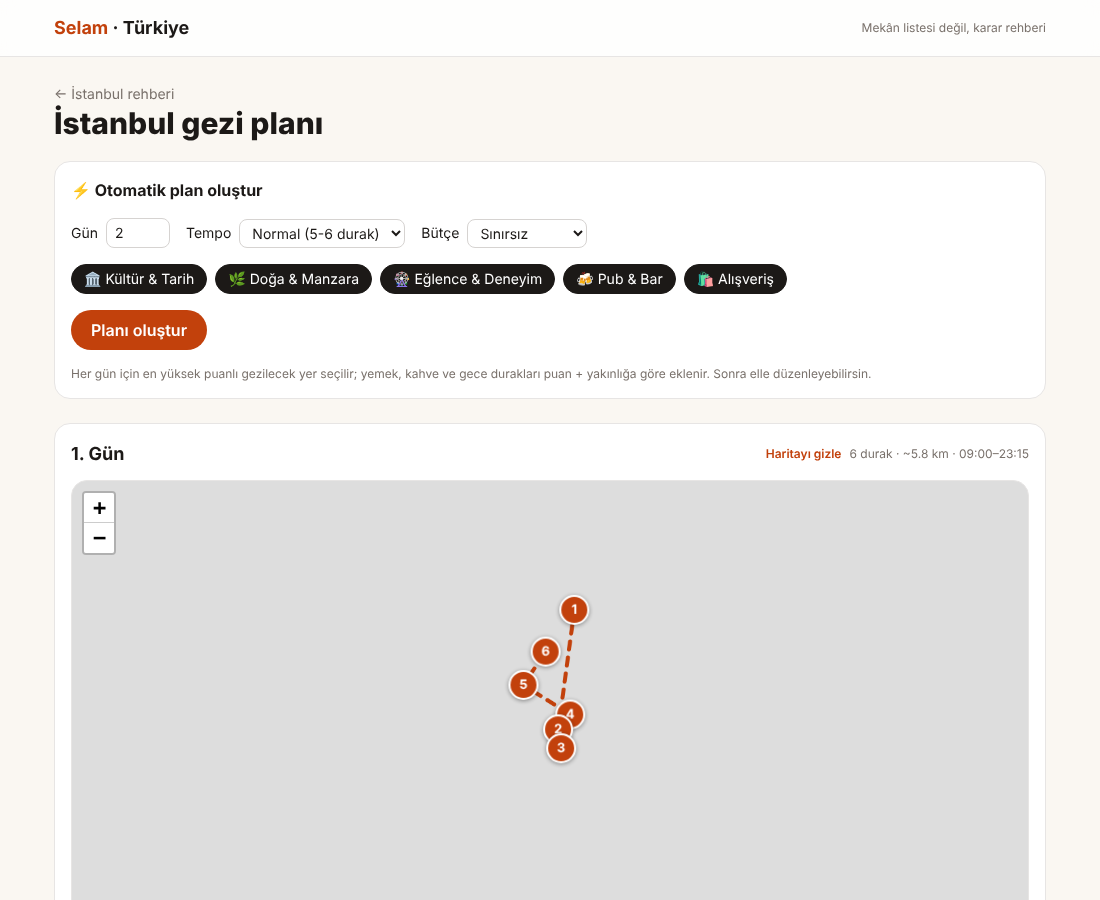
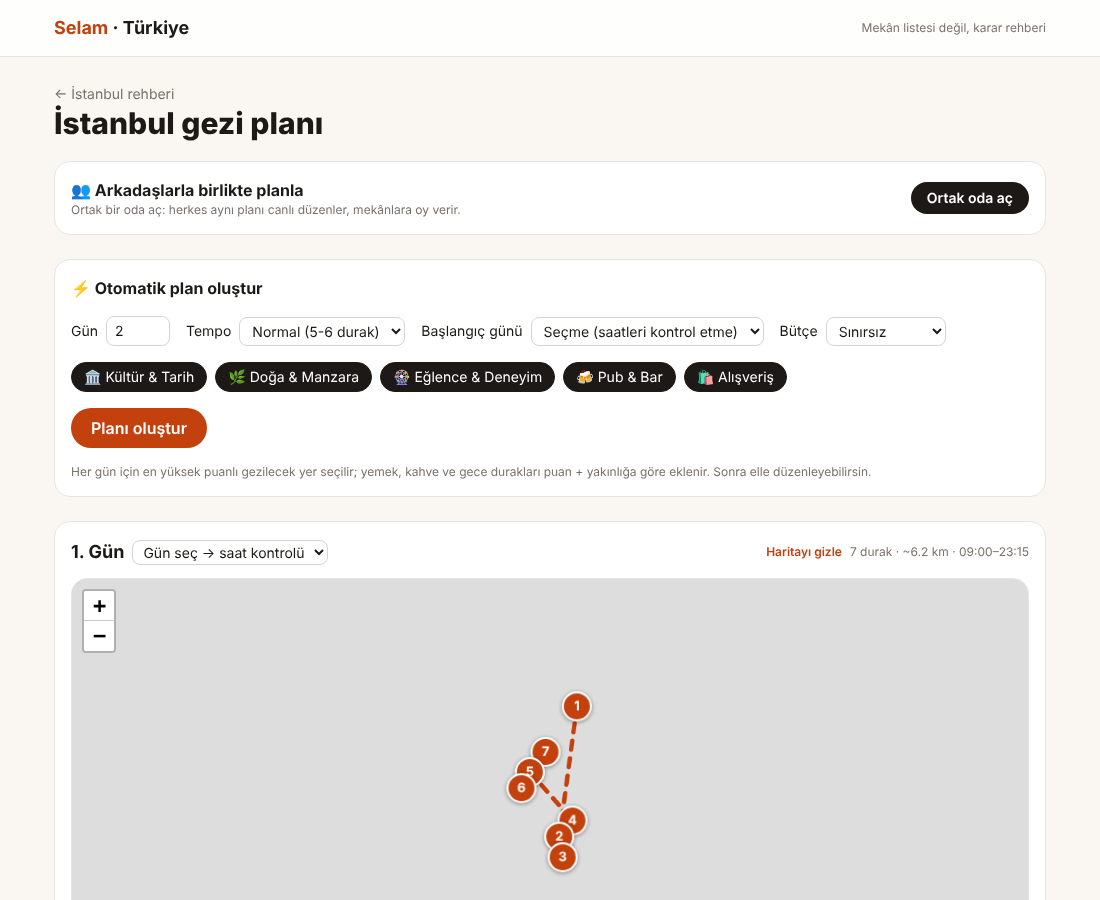
Harita: Google Maps JavaScript API'ye geçiş (anahtarsız yedek: Leaflet); ortak işaretçi/balon kodu; .env.example
Claude-Session: https://claude.ai/code/session_01CUKZLZnPzdkBC7hLm8rPf2

diff --git a/src/components/map/GoogleMap.tsx b/src/components/map/GoogleMap.tsx
@@ -1,0 +1,116 @@
+/// <reference types="@types/google.maps" />
+"use client";
+import { useEffect, useRef, useState } from "react";
+import { fitKey, pinElement, popupContent, type MapProps } from "./shared";
+
+const KEY = process.env.NEXT_PUBLIC_GOOGLE_MAPS_API_KEY ?? "";
+/** Gelişmiş işaretçiler Map ID ister; "DEMO_MAP_ID" yalnızca geliştirme içindir — üretimde kendi Map ID'ni tanımla. */
+const MAP_ID = process.env.NEXT_PUBLIC_GOOGLE_MAP_ID || "DEMO_MAP_ID";
+
+let loading: Promise<void> | null = null;
+/** Google Maps JS API'sini bir kez yükler (bağımlılık eklemeden, resmi dinamik yükleme yöntemiyle). */
+function loadGoogle(): Promise<void> {
+  if (typeof google !== "undefined" && typeof google.maps?.importLibrary === "function") return Promise.resolve();
+  loading ??= new Promise<void>((resolve, reject) => {
+    const s = document.createElement("script");
+    s.src = `https://maps.googleapis.com/maps/api/js?key=${encodeURIComponent(KEY)}&v=weekly&loading=async&language=tr&region=TR`;
+    s.async = true;
+    s.onload = () => resolve();
+    s.onerror = () => {
+      loading = null;
+      reject(new Error("Google Haritalar yüklenemedi"));
+    };
+    document.head.appendChild(s);
+  });
+  return loading;
+}
+
+export default function GoogleMap({ places, center, route, inPlan, dim, onToggle, height = "70vh" }: MapProps) {
+  const host = useRef<HTMLDivElement>(null);
+  const map = useRef<google.maps.Map | null>(null);
+  const info = useRef<google.maps.InfoWindow | null>(null);
+  const overlays = useRef<{ markers: google.maps.marker.AdvancedMarkerElement[]; line?: google.maps.Polyline }>({ markers: [] });
+  const fitted = useRef<string | null>(null);
+  const [ready, setReady] = useState(false);
+  const [error, setError] = useState<string | null>(null);
+
+  useEffect(() => {
+    let cancelled = false;
+    (async () => {
+      try {
+        await loadGoogle();
+        const { Map, InfoWindow } = (await google.maps.importLibrary("maps")) as google.maps.MapsLibrary;
+        await google.maps.importLibrary("marker");
+        if (cancelled || !host.current) return;
+        map.current = new Map(host.current, {
+          center: { lat: center[0], lng: center[1] },
+          zoom: 12,
+          mapId: MAP_ID,
+          clickableIcons: false,
+          streetViewControl: false,
+          mapTypeControl: false,
+        });
+        info.current = new InfoWindow();
+        setReady(true);
+      } catch (e) {
+        if (!cancelled) setError((e as Error).message);
+      }
+    })();
+    return () => {
+      cancelled = true;
+    };
+    // eslint-disable-next-line react-hooks/exhaustive-deps
+  }, []);
+
+  useEffect(() => {
+    const m = map.current;
+    if (!ready || !m) return;
+    for (const mk of overlays.current.markers) mk.map = null;
+    overlays.current.line?.setMap(null);
+    overlays.current = { markers: [] };
+
+    const order = new Map((route ?? []).map((p, i) => [p.id, i + 1]));
+    const bounds = new google.maps.LatLngBounds();
+    const path: google.maps.LatLngLiteral[] = [];
+    for (const p of route ?? places) {
+      const pos = { lat: p.lat, lng: p.lng };
+      const planned = inPlan?.(p.id);
+      const marker = new google.maps.marker.AdvancedMarkerElement({
+        map: m,
+        position: pos,
+        title: p.name,
+        content: pinElement(p, { n: order.get(p.id), planned, dim: dim?.(p.id) }),
+      });
+      marker.addListener("click", () => {
+        info.current?.setContent(popupContent(p, planned, onToggle && (() => { onToggle(p.id); info.current?.close(); })));
+        info.current?.open({ map: m, anchor: marker });
+      });
+      overlays.current.markers.push(marker);
+      bounds.extend(pos);
+      path.push(pos);
+    }
+    if (route && route.length > 1) {
+      overlays.current.line = new google.maps.Polyline({
+        map: m,
+        path,
+        strokeOpacity: 0,
+        icons: [{ icon: { path: "M 0,-1 0,1", strokeOpacity: 1, strokeColor: "#c2410c", scale: 3 }, offset: "0", repeat: "14px" }],
+      });
+    }
+    const key = fitKey(places, route);
+    if (path.length && fitted.current !== key) {
+      fitted.current = key;
+      m.fitBounds(bounds, 48);
+      google.maps.event.addListenerOnce(m, "idle", () => (m.getZoom() ?? 0) > 15 && m.setZoom(15));
+    }
+  }, [ready, places, route, inPlan, dim, onToggle]);
+
+  if (error) {
+    return (
+      <div style={{ height }} className="rounded-2xl border border-stone-200 bg-stone-50 grid place-items-center text-sm text-stone-600 p-4 text-center">
+        Harita yüklenemedi. Bağlantını ya da Google Maps anahtarı kısıtlarını (izinli alan adı) kontrol et.
+      </div>
+    );
+  }
+  return <div ref={host} style={{ height }} className="rounded-2xl border border-stone-200 z-0 bg-stone-100" />;
+}

diff --git a/src/components/map/shared.ts b/src/components/map/shared.ts
@@ -1,0 +1,66 @@
+import { catEmoji, PRICE_LABEL } from "@/lib/categories";
+import { mapsUrl } from "@/lib/geo";
+import type { ScoredPlace } from "@/lib/types";
+
+export interface MapProps {
+  places: ScoredPlace[];
+  center: [number, number];
+  /** verilirse noktalar bu sırayla numaralanır ve rota çizgisiyle birleştirilir */
+  route?: ScoredPlace[];
+  inPlan?: (id: string) => boolean;
+  /** true dönen mekânlar (ör. şu an kapalı) soluk çizilir */
+  dim?: (id: string) => boolean;
+  onToggle?: (id: string) => void;
+  height?: string;
+}
+
+/** Her iki harita sağlayıcısı için ortak işaretçi (numaralı/emojili daire). DOM ile kurulur, innerHTML yok. */
+export function pinElement(p: ScoredPlace, opts: { n?: number; planned?: boolean; dim?: boolean }) {
+  const el = document.createElement("div");
+  const hot = !!opts.n || !!opts.planned;
+  el.style.cssText = `width:30px;height:30px;border-radius:50%;display:grid;place-items:center;font-size:${
+    opts.n ? 13 : 15
+  }px;font-weight:700;color:#fff;border:2px solid #fff;box-shadow:0 1px 4px #0006;opacity:${opts.dim ? 0.4 : 1};background:${
+    hot ? "#c2410c" : "#1c1917"
+  };cursor:pointer`;
+  el.textContent = String(opts.n ?? catEmoji(p.cat));
+  el.title = p.name;
+  return el;
+}
+
+/** Bilgi balonu içeriği. Kasıtlı olarak yalnızca Selam skoru + editoryal metin gösterir (ham Google puanı/saati yok). */
+export function popupContent(p: ScoredPlace, inPlan: boolean | undefined, onToggle?: () => void) {
+  const el = document.createElement("div");
+  el.style.minWidth = "200px";
+  const add = (tag: string, text: string, style = "") => {
+    const n = document.createElement(tag);
+    n.textContent = text;
+    n.style.cssText = style;
+    el.appendChild(n);
+    return n;
+  };
+  add("strong", p.name, "display:block");
+  add("div", `${p.district} · ${PRICE_LABEL[p.price]} · skor ${p.score.toFixed(1)}`, "font-size:12px;color:#78716c");
+  add("div", p.why[0], "font-size:12px;margin:6px 0");
+  const row = document.createElement("div");
+  row.style.cssText = "display:flex;gap:8px;align-items:center";
+  const a = document.createElement("a");
+  a.href = mapsUrl(p);
+  a.target = "_blank";
+  a.rel = "noopener noreferrer";
+  a.textContent = "Google Maps";
+  a.style.fontSize = "12px";
+  row.appendChild(a);
+  if (onToggle) {
+    const b = document.createElement("button");
+    b.textContent = inPlan ? "Plandan çıkar" : "+ Plana ekle";
+    b.style.cssText = "background:#c2410c;color:#fff;border-radius:999px;padding:4px 10px;font-size:12px";
+    b.onclick = onToggle;
+    row.appendChild(b);
+  }
+  el.appendChild(row);
+  return el;
+}
+
+/** Aynı mekân kümesi/rotası için tekrar sığdırmayı önlemek (plana ekleyince zoom sıfırlanmasın). */
+export const fitKey = (places: ScoredPlace[], route?: ScoredPlace[]) => (route ?? places).map((p) => p.id).join(",");

diff --git a/src/components/map/LeafletMap.tsx b/src/components/map/LeafletMap.tsx
@@ -1,0 +1,59 @@
+"use client";
+import "leaflet/dist/leaflet.css";
+import L from "leaflet";
+import { useEffect, useRef } from "react";
+import { fitKey, pinElement, popupContent, type MapProps } from "./shared";
+
+/** Yedek harita (OpenStreetMap): yalnızca Google Maps anahtarı yokken (geliştirme/test). Google verisi gösteren üretim yapısında kullanılmamalı. */
+export default function LeafletMap({ places, center, route, inPlan, dim, onToggle, height = "70vh" }: MapProps) {
+  const host = useRef<HTMLDivElement>(null);
+  const map = useRef<L.Map | null>(null);
+  const layer = useRef<L.LayerGroup | null>(null);
+  /** yalnızca mekân listesi değişince haritayı yeniden sığdır; plana ekleyince zoom sıfırlanmasın */
+  const fitted = useRef<string | null>(null);
+
+  useEffect(() => {
+    if (!host.current || map.current) return;
+    map.current = L.map(host.current).setView(center, 12);
+    L.tileLayer("https://tile.openstreetmap.org/{z}/{x}/{y}.png", {
+      maxZoom: 19,
+      attribution: '&copy; <a href="https://www.openstreetmap.org/copyright">OpenStreetMap</a>',
+    }).addTo(map.current);
+    layer.current = L.layerGroup().addTo(map.current);
+    return () => {
+      map.current?.remove();
+      map.current = null;
+    };
+    // eslint-disable-next-line react-hooks/exhaustive-deps
+  }, []);
+
+  useEffect(() => {
+    const m = map.current;
+    const g = layer.current;
+    if (!m || !g) return;
+    g.clearLayers();
+    const order = new Map((route ?? []).map((p, i) => [p.id, i + 1]));
+    const pts: L.LatLngExpression[] = [];
+    for (const p of route ?? places) {
+      const n = order.get(p.id);
+      const planned = inPlan?.(p.id);
+      const icon = L.divIcon({
+        className: "",
+        iconSize: [30, 30],
+        iconAnchor: [15, 15],
+        html: pinElement(p, { n, planned, dim: dim?.(p.id) }),
+      });
+      const marker = L.marker([p.lat, p.lng], { icon, title: p.name }).addTo(g);
+      marker.bindPopup(() => popupContent(p, planned, onToggle && (() => { onToggle(p.id); marker.closePopup(); })));
+      pts.push([p.lat, p.lng]);
+    }
+    if (route && route.length > 1) L.polyline(pts, { color: "#c2410c", weight: 3, dashArray: "6 6" }).addTo(g);
+    const key = fitKey(places, route);
+    if (pts.length && fitted.current !== key) {
+      fitted.current = key;
+      m.fitBounds(L.latLngBounds(pts).pad(0.2), { maxZoom: 15 });
+    }
+  }, [places, route, inPlan, dim, onToggle]);
+
+  return <div ref={host} style={{ height }} className="rounded-2xl border border-stone-200 z-0" />;
+}

diff --git a/src/components/MapLoader.tsx b/src/components/MapLoader.tsx
@@ -1,8 +1,13 @@
 "use client";
 import dynamic from "next/dynamic";
 
-/** Leaflet `window` ister; yalnızca istemcide yüklenir. */
-export const MapView = dynamic(() => import("./MapView"), {
+/**
+ * Google Maps anahtarı (NEXT_PUBLIC_GOOGLE_MAPS_API_KEY) varsa Google Haritalar; yoksa yedek olarak Leaflet/OSM.
+ * İkisi de yalnızca istemcide, ihtiyaç olunca yüklenir (Leaflet CSS'i Google modunda hiç yüklenmez).
+ */
+const useGoogle = !!process.env.NEXT_PUBLIC_GOOGLE_MAPS_API_KEY;
+
+export const MapView = dynamic(() => (useGoogle ? import("./map/GoogleMap") : import("./map/LeafletMap")), {
   ssr: false,
   loading: () => <div className="h-[70vh] rounded-2xl bg-stone-100 animate-pulse" />,
 });

diff --git a/docs/MOBILE.md b/docs/MOBILE.md
@@ -15,8 +15,11 @@ Durum: web uygulaması (Next.js) hazır; mobil paketleme **henüz yapılmadı**.
 
 ## 2. Veri lisansı — YAYIN ÖNCESİ ÇÖZÜLMELİ
 
-- **Google Places verisi (puan, saatler, yorum sayısı) Google dışı haritada gösterilemez.** Google Maps Platform şartları Places içeriğini yalnızca Google Haritası üzerinde (ya da haritasız) göstermeye izin verir. Uygulamamız OpenStreetMap/Leaflet kullanıyor; harita popup'ında Google kaynaklı puan/saat **göstermiyoruz** (yalnızca "Selam skoru" ve editoryal metin), ama kartlarda Google puanı ve saatleri var. Yayın öncesi ya Google Maps SDK/JS'e geçilmeli, ya Google verisi harita katmanından ayrı tutulmalı, ya da hukuki görüş alınmalı.
-- **Önbellek:** Google, Place ID dışında verinin uzun süreli saklanmasını kısıtlar. Şu an ingest çıktısı `data/signals/` içinde (repoya girmez). Üretimde TTL ile yenileme ve şartlara uygun saklama tasarlanmalı.
+- **Harita: Google Haritalar'a geçildi (karar verildi).** Places içeriği Google dışı haritada gösterilemediği için `GoogleMap.tsx` kullanılır; Leaflet/OSM yalnızca anahtarsız geliştirme yedeğidir ve üretimde kullanılmamalıdır.
+  - Maps JS anahtarı tarayıcıda görünür: **HTTP referrer** ile kısıtla, yalnızca "Maps JavaScript API"ye yetkilendir, bütçe/kota uyarısı kur. Ingest için **ayrı** sunucu anahtarı kullan.
+  - Capacitor (mobil) WebView'ında referrer `https://localhost` / `capacitor://localhost` olur; ya bu kaynakları anahtar kısıtına ekle ya da yerel Google Maps SDK eklentisine (`@capacitor/google-maps`) geç.
+  - Üretimde kendi **Map ID**'ni tanımla (`NEXT_PUBLIC_GOOGLE_MAP_ID`); varsayılan `DEMO_MAP_ID` yalnızca geliştirme içindir.
+- **AÇIK SORUN — Places içeriğinin saklanması:** Google, Place ID dışında (puan, saat, yorum sayısı gibi) içeriğin kalıcı saklanmasını kısıtlar. Şu an `npm run ingest` bunları `data/signals/` dosyasına yazıyor ve `Selam skoru` sunucuda bunlarla hesaplanıyor. Haritanın Google'a geçmesi bunu çözmez. Seçenekler: (a) yalnızca `placeId` sakla, puan/saati kullanıcı kartı açıldığında **canlı** çek (Places JS `fetchFields`; rating/saat daha pahalı SKU'dur, maliyet için tembel yükle); (b) Google puanını sıralamadan çıkarıp skoru editoryal + TripAdvisor'a dayandır, Google verisini yalnızca canlı rozet olarak göster; (c) Google'dan lisans/hukuki görüş al. Karar verilmeden Google verisi canlı sitede yayınlanmamalı.
 - **TripAdvisor:** Content API'de TripAdvisor logosu/atfı ve ilgili sayfaya bağlantı zorunlu; puanları TripAdvisor puanı olarak etiketlemeden birleştirmek ("Selam skoru") şartlar açısından gözden geçirilmeli.
 - **OpenStreetMap karoları (tile.openstreetmap.org)** yoğun/ticari uygulama kullanımına uygun değil; Mapbox/MapTiler vb. sağlayıcıya geçilmeli, OSM atıfı korunmalı.
 
@@ -29,7 +32,7 @@ Durum: web uygulaması (Next.js) hazır; mobil paketleme **henüz yapılmadı**.
 
 ## 4. Önerilen sıra
 
-1. Veri lisansı kararı (Google Maps SDK'ya geçiş **ya da** Google verisini ayırma) ve TripAdvisor atıfı.
+1. Places içeriği saklama kararı (yukarıdaki a/b/c) ve TripAdvisor atıfı.
 2. Barındırma: ortak oda sunucusu için kalıcı depo.
 3. Capacitor iskeleti + 2–3 yerel özellik (çevrimdışı, konum, paylaşım).
 4. TestFlight / Play iç test → kapalı test → yayın.

diff --git a/README.md b/README.md
@@ -11,7 +11,9 @@ Google Maps'in “mekân listesi”nin ötesinde: şehir bazlı, kategorilere ay
 - **Filtreler**: ortam (öğrenci dostu, romantik, gece hayatı, bütçe dostu…) ve bütçe.
 - **Gezi planlayıcı**: gün/tempo/ilgi/bütçeye göre otomatik plan (kahvaltı → gezi → öğle → … → gece; yakınlık + puan
   optimizasyonu, yürüme/seyahat süreleri, yemek saatleri), sonra elle düzenleme. Plan tarayıcıda saklanır. Gün batımı yerleri kendi dilimine (≥17:30) konur, gündoğumu deneyimleri (balon) otomatik plana girmez, tam gün aktiviteler (tekne turu, Ihlara) sabahı kaplar ve o günün öğle yemeğini atlar; plan 02:00'yi aşmaz.
-- **Harita görünümü**: şehir sayfasında Liste/Harita geçişi (filtreler haritaya da uygulanır, işaretçiden plana ekle); planda her günün rotası numaralı duraklar ve çizgiyle haritada. Leaflet + OpenStreetMap, API anahtarı gerekmez (yoğun trafikte kendi tile sağlayıcınıza geçin).
+- **Harita görünümü**: şehir sayfasında Liste/Harita geçişi (filtreler haritaya da uygulanır, işaretçiden plana ekle); planda her günün rotası numaralı duraklar ve çizgiyle haritada.
+  **Google Haritalar (Maps JavaScript API)** kullanılır: `NEXT_PUBLIC_GOOGLE_MAPS_API_KEY` tanımlıysa. Anahtar yoksa geliştirme/test için yedek olarak Leaflet + OpenStreetMap çalışır
+  (Google verisi gösteren üretim yapısında anahtar tanımlı olmalı). Ayarlar için `.env.example`.
 - **“Şu an açık”**: kartlarda canlı durum (İstanbul saatiyle: açık/yakında kapanıyor/kapalı + açılış zamanı), listede “Şu an açık”
   filtresi, haritada kapalı mekânlar soluk. Planda gün seçince (ya da “Başlangıç günü”) kapalı mekânlar otomatik plana
   alınmaz, elle eklenenlerde ⚠ uyarısı çıkar. Saatler Google Places'ten `npm run ingest` ile gelir; **saati bilinmeyen
@@ -26,7 +28,7 @@ Google Maps'in “mekân listesi”nin ötesinde: şehir bazlı, kategorilere ay
 - **Selam skoru**: Bayes düzeltmeli Google + TripAdvisor puanları ile editoryal puanın harmanı (az yorumlu “5.0”
   yerler şişmez). İki kaynak varsa “yerel mi turist mi” göstergesi (`localness`) hesaplanır.
 
-> **Mağaza yayını:** bkz. [`docs/MOBILE.md`](docs/MOBILE.md) — özellikle Google Places verisinin Google dışı haritada gösterilemeyeceği lisans kısıtı yayın öncesi çözülmelidir.
+> **Mağaza yayını:** bkz. [`docs/MOBILE.md`](docs/MOBILE.md) — harita Google'a geçti; ama Google Places içeriğinin (puan/saat) kalıcı saklanamaması hâlâ yayın öncesi çözülmesi gereken bir lisans konusudur.
 
 ## Çalıştırma
 
